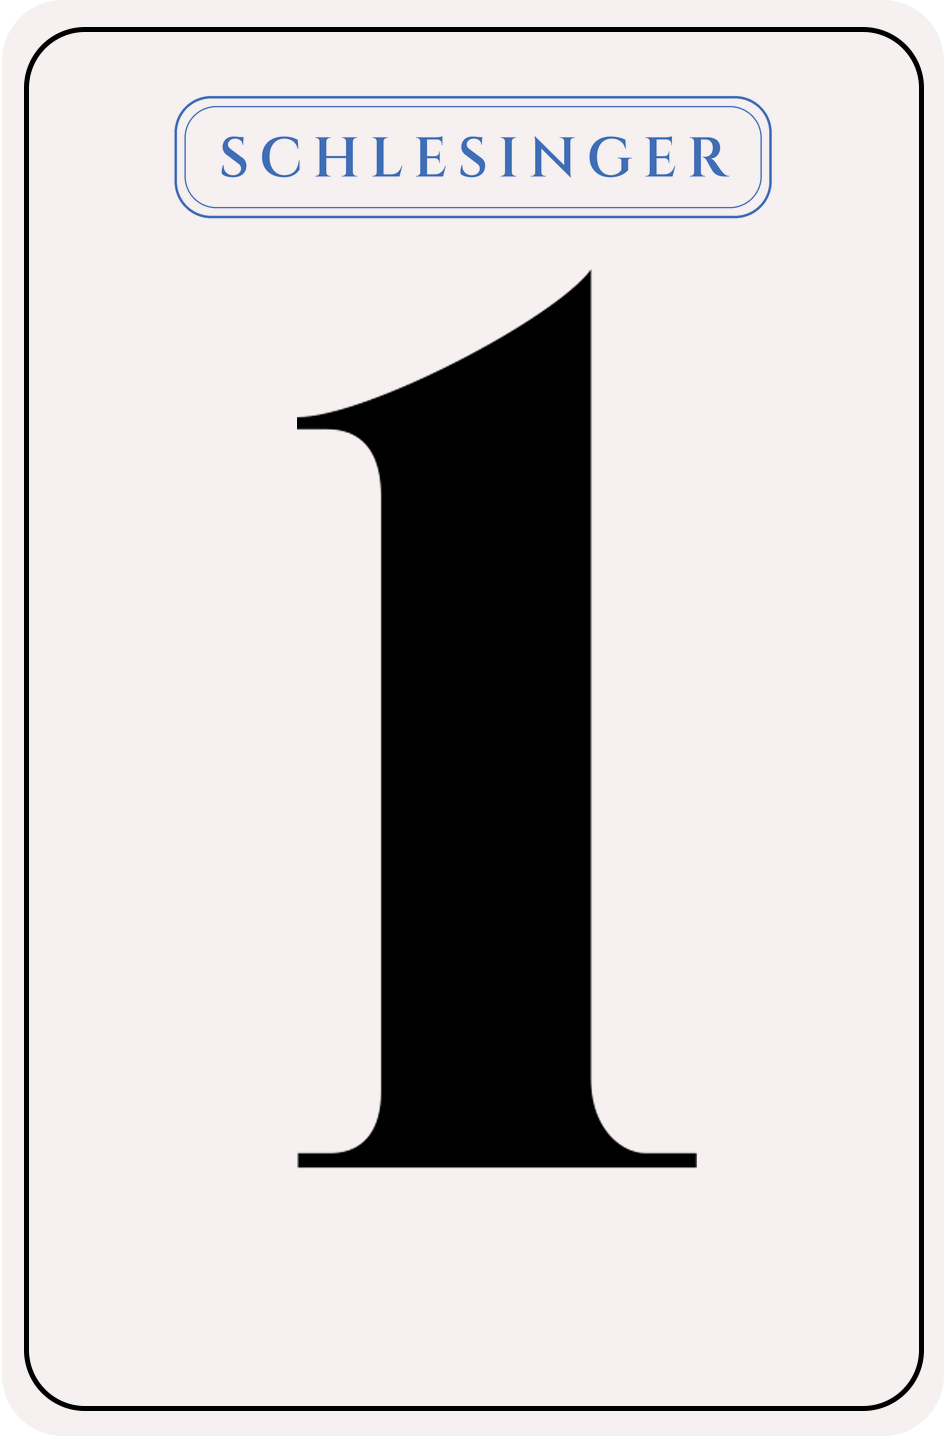
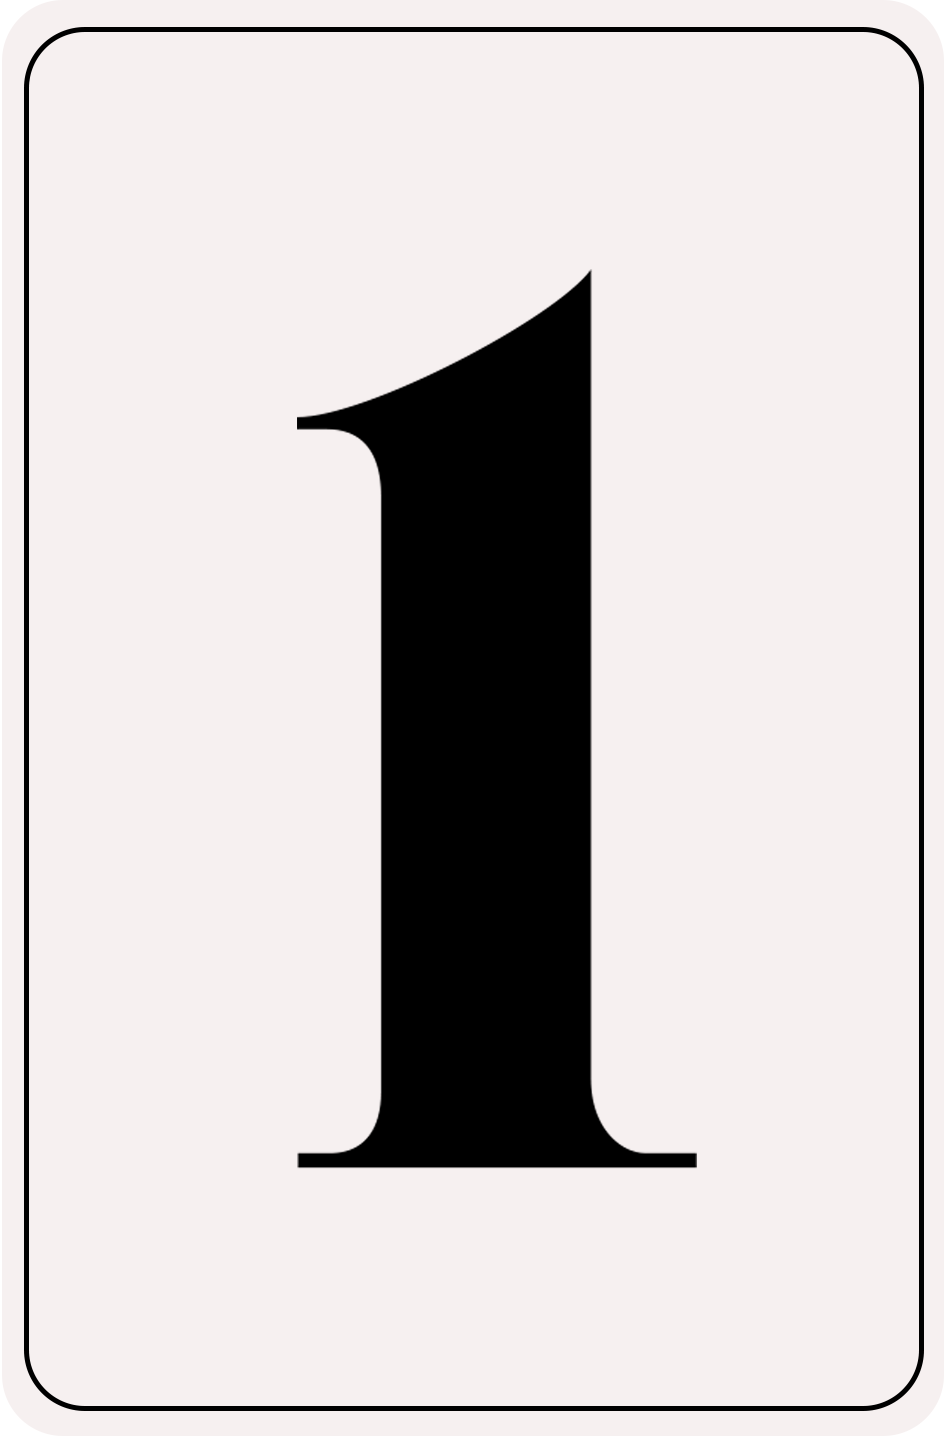
Draw the maker's mark live over the card art instead of baking it in
public/ now ships the UNMARKED render (--no-mark); CardView draws the mark
as an SVG overlay from table/cardMark.ts, which is therefore the only thing
that draws it. Card 9 keeps its underdot, which is card art, not branding.

Checked the thing that actually decides whether this is safe first: the
mark's constants were tuned by measuring ink contrast AFTER a ~14x LANCZOS
downscale of a 946px raster, and the overlay does not go through LANCZOS at
all -- it is vector text rasterised by the browser at final size. Compared
the two pipelines side by side at the card widths really used (92/56/32/20
CSS px at dpr 2), mean absolute channel difference over the mark's own band:

  92px  6.2 (card 8) / 7.5 (card 1)      56px  0.3 / 4.3
  32px  0.0 / 0.5                        20px  0.0 / 0.2

They are identical at small sizes and diverge slightly only at the largest,
which is the opposite of the concern. Under magnification that divergence
was the browser subpixel-antialiasing text the raster had greyscale-
antialiased, hence text-rendering: geometricPrecision on .k-cardmark.

APP_VERSION 9.1 is load-bearing here, not cosmetic: cardImages appends
?v=APP_VERSION, so a client holding 9.0's cached PNGs would render the baked
mark AND the overlay -- SCHLESINGER stamped twice on cards 1, 8 and 12.

font-display: block, not swap. Card 1's cartouche frame is drawn at a width
computed from Cinzel's own advance widths (cardMark.ts's ADV table), so a
[…]

Changed region(s): [[0.1839, 0.0612, 0.8277, 0.153]]

diff --git a/frontend/src/table/__tests__/CardView.test.tsx b/frontend/src/table/__tests__/CardView.test.tsx
@@ -96,3 +96,54 @@ describe("card art cache-busting", () => {
     expect(cardImages.blank).toBe("/blank.png");
   });
 });
+
+// The mark is no longer baked into the PNGs -- public/ ships the unmarked
+// render and this overlay is the ONLY thing that draws it. So "no mark
+// rendered" is not a cosmetic regression here, it is the mark being gone.
+describe("maker's mark overlay", () => {
+  const mark = (container: HTMLElement) => container.querySelector(".k-cardmark");
+
+  it("draws the mark on the cards that carry one", () => {
+    for (const rank of ["1", "8", "12"]) {
+      const { container } = render(<CardView card={{ name: rank, attributes: { values: [Number(rank)] } }} />);
+      expect(mark(container), `card ${rank}`).toBeTruthy();
+      expect(mark(container)?.innerHTML, `card ${rank}`).toContain("SCHLESINGER");
+    }
+  });
+
+  it("creates no element at all for the other nine", () => {
+    // Not an empty <svg>: the felt re-renders every card each round, and an
+    // overlay per card would be nine wasted nodes per hand for nothing.
+    for (const rank of ["2", "3", "5", "9", "10", "11"]) {
+      const { container } = render(<CardView card={{ name: rank, attributes: { values: [Number(rank)] } }} />);
+      expect(mark(container), `card ${rank}`).toBeNull();
+    }
+  });
+
+  it("never marks a face-down card", () => {
+    // hidden renders blank.png -- a mark on the card BACK would show the
+    // table what is about to be dealt.
+    const { container } = render(<CardView card={{ name: "8", attributes: { values: [8] } }} hidden />);
+    expect(mark(container)).toBeNull();
+  });
+
+  it("aligns to the art, not to the layout box", () => {
+    // The old list UI's fixed w-10/h-14 box is a different aspect ratio from
+    // the 946x1438 card, so the img letterboxes inside it. preserveAspectRatio
+    // makes the overlay letterbox identically; inset:0 alone would print the
+    // mark a few px off the art.
+    const { container } = render(<CardView card={{ name: "8", attributes: { values: [8] } }} size="md" />);
+    const svg = mark(container);
+    expect(svg?.getAttribute("viewBox")).toBe("0 0 946 1438");
+    expect(svg?.getAttribute("preserveAspectRatio")).toBe("xMidYMid meet");
+  });
+
+  it("desaturates with the card face on an Eleveroon reject", () => {
+    // A mark that stayed blue on a greyed-out card reads as a separate thing
+    // sitting on top of it, not as something printed on it.
+    const { container } = render(
+      <CardView card={{ name: "12", attributes: { values: [12], eleveroonIgnored: true } }} pastFirstPaint />
+    );
+    expect(mark(container)?.getAttribute("class")).toContain("grayscale");
+  });
+});

diff --git a/frontend/src/index.css b/frontend/src/index.css
@@ -10,6 +10,26 @@
   font-display: swap;
 }
 
+/* Cinzel, SIL OFL (tools/fonts/OFL.txt), subset to the mark's own glyphs --
+   25KB with the wght axis intact. Used by nothing but the maker's mark that
+   CardView draws over the card art (table/cardMark.ts).
+
+   font-display: BLOCK, not swap, and that is the whole reason this comment
+   exists. Card 1's cartouche frame is drawn at a width computed from Cinzel's
+   own advance widths (cardMark.ts's ADV table, read out of the font file). In
+   a fallback face those advances are different, so `swap` would paint the word
+   in Georgia at the wrong width inside a box sized for Cinzel -- text visibly
+   overflowing its own frame -- and then reflow. `block` renders nothing until
+   the face is ready, which for a decorative mark is strictly better than
+   showing it broken. */
+@font-face {
+  font-family: 'Cinzel';
+  src: url('/cinzel-subset.woff2') format('woff2');
+  font-weight: 400 900;
+  font-style: normal;
+  font-display: block;
+}
+
 body {
   font-family: theme('fontFamily.body');
   min-height: 100vh;
@@ -1013,6 +1033,29 @@ body:has(.k-fit) {
   font-size: 9px;
   color: rgba(230, 164, 75, 0.75);
   white-space: nowrap;
+}
+
+/* The maker's mark, drawn live over the card art rather than baked into it
+   (CardView.tsx + table/cardMark.ts). Only cards in DEFAULT_MARK.cards get one
+   at all -- markSvgBody returns "" otherwise and no element is rendered.
+
+   preserveAspectRatio on the SVG itself does the alignment: the viewBox is the
+   art's exact 946x1438, so "xMidYMid meet" letterboxes identically to the
+   img's own object-contain. That matters for the old list UI, whose fixed
+   w-10/h-14 box is a different ratio from the card -- inset:0 alone would put
+   the mark a few px off the art it is supposed to be printed on.
+
+   geometricPrecision because the browser otherwise subpixel-antialiases this
+   text and the baked raster it replaces was greyscale-antialiased by LANCZOS.
+   Measured side by side at 92px, that difference was visible as colour
+   fringing on the letter edges under magnification. */
+.k-cardmark {
+  position: absolute;
+  inset: 0;
+  width: 100%;
+  height: 100%;
+  pointer-events: none;
+  text-rendering: geometricPrecision;
 }
 
 /* Card back image, reused at several sizes. */

diff --git a/frontend/src/table/CardView.tsx b/frontend/src/table/CardView.tsx
@@ -3,6 +3,7 @@ import { clsx } from "clsx";
 import { Card } from "../types";
 import { cardImages } from "./selectors";
 import { Icon } from "./icons";
+import { ART_H, ART_W, DEFAULT_MARK, markSvgBody } from "./cardMark";
 
 // Total ms from mount to a freshly-rejected card vanishing into the discard
 // pile: cardDealIn (340) + eleveroonReject's own delay (340) + its duration
@@ -57,6 +58,16 @@ export function CardView({
   const sizeClass = size === "lg" ? "w-12 h-[4.5rem] sm:w-16 sm:h-24" : size === "md" ? "w-10 h-14 sm:w-12 sm:h-16" : "";
 
   const elevActive = ignored && !hidden;
+
+  // The maker's mark, drawn over the art instead of baked into the PNG. The
+  // art in public/ is now the UNMARKED render (tools/card-mark.py --no-mark),
+  // so this is the only thing that draws it -- if it stops rendering the mark
+  // is simply gone, it does not fall back to a stamped PNG.
+  //
+  // "" for a face-down card and for every card outside DEFAULT_MARK.cards
+  // (currently 1, 8 and 12), so no element is created at all rather than an
+  // empty <svg> over every card on a felt that re-renders each round.
+  const markBody = hidden || showFallback ? "" : markSvgBody(Number(card.name), DEFAULT_MARK);
 
   // The discard pile (DiscardPile.tsx), not a ring left sitting in the hand,
   // is the record of an Eleveroon reject -- see index.css's cardDiscardFly
@@ -131,6 +142,20 @@ export function CardView({
           src={src}
           alt={alt}
           className={clsx(size ? "w-full h-full object-contain" : undefined, elevActive && "opacity-70 grayscale")}
+        />
+      )}
+      {markBody && (
+        // Same opacity/grayscale treatment as the img above: an Eleveroon
+        // reject desaturates its card face, and a mark that stayed blue on a
+        // greyed-out card would read as a separate element sitting on top of
+        // it rather than as something printed on the card.
+        <svg
+          className={clsx("k-cardmark", elevActive && "opacity-70 grayscale")}
+          viewBox={`0 0 ${ART_W} ${ART_H}`}
+          preserveAspectRatio="xMidYMid meet"
+          aria-hidden="true"
+          focusable="false"
+          dangerouslySetInnerHTML={{ __html: markBody }}
         />
       )}
       {showFallback && (

diff --git a/frontend/index.html b/frontend/index.html
@@ -9,6 +9,16 @@
     <link rel="icon" type="image/png" sizes="512x512" href="/kvitlach-icon-512.png" />
     <link rel="icon" type="image/png" sizes="192x192" href="/kvitlach-icon-192.png" />
     <link rel="preload" href="/DidoneRoomNumbers.otf" as="font" type="font/otf" crossorigin>
+    <!-- Cinzel carries the maker's mark CardView draws over the card art. It
+         is declared font-display:block (see index.css for why -- card 1's
+         cartouche is sized from Cinzel's own advance widths, so a fallback
+         face paints the word overflowing its frame). Without this preload the
+         face is not fetched until the first 1, 8 or 12 is dealt, and "block"
+         means that card renders with the mark INVISIBLE until the download
+         finishes -- measured: document.fonts.ready resolved with the face
+         still "unloaded", so the mark would have popped in a beat late on the
+         first marked card of a session. 25KB, subset to the mark's glyphs. -->
+    <link rel="preload" href="/cinzel-subset.woff2" as="font" type="font/woff2" crossorigin>
     <!-- iOS Safari has no Fullscreen API for ordinary elements (see
          table/fullscreen.ts) -- installing as a home-screen web app is the
          only way an iPhone player gets a chrome-free table, so this needs to

diff --git a/frontend/src/version.ts b/frontend/src/version.ts
@@ -9,4 +9,4 @@
 // others were bumped to v2.5. SiteHeader/SiteFooter fixed the duplication;
 // this constant is what keeps the number itself from drifting the same way
 // again now that there's only ever one place to bump it.
-export const APP_VERSION = "9.0";
+export const APP_VERSION = "9.1";

diff --git a/tools/card-mark.py b/tools/card-mark.py
@@ -57,9 +57,13 @@ NAME = "SCHLESINGER"
 # admin editor can switch any card on, and then it matters again -- but no
 # shipped default depends on it any more.
 #
-# frontend/src/table/cardMark.ts mirrors this set for the live overlay. The
-# overlay exists to reproduce these rasters exactly; if the two disagree, a
-# card gains or loses its mark the moment the overlay is switched on.
+# WHAT SHIPS IS NOW UNMARKED ART. As of v9.1 the mark is drawn live over the
+# card by frontend/src/table/cardMark.ts, so frontend/public/ is written with
+# --no-mark and this set no longer describes anything baked into a PNG. It is
+# the DESIGN set: which cards show a mark at all, mirrored by that module's
+# DEFAULT_MARK.cards and pinned to it by cardMark.test.ts, which reads this
+# line out of this file. Baking still works (--write without --no-mark) and is
+# what the proof sheets use to compare the two pipelines.
 MARKED = frozenset({1, 8, 12})
 
 # Sized and inked for 68px, not for 946px.
